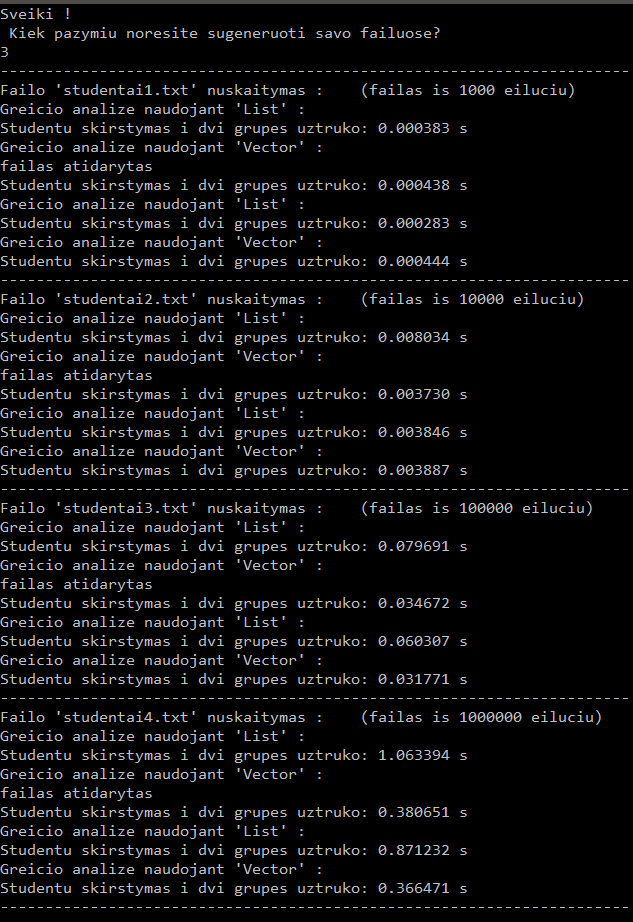
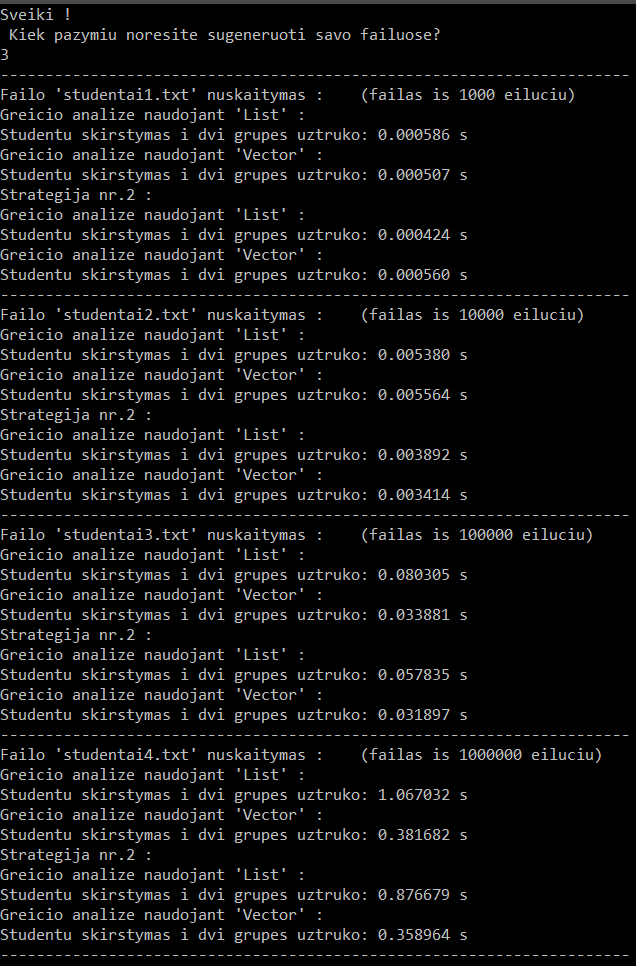
Add files via upload

Changed region(s): [[0.0, 0.0911, 0.9605, 1.0], [0.0, 0.0, 0.6904, 0.0607]]

diff --git a/strategija1.cpp b/strategija1.cpp
@@ -71,7 +71,6 @@ void greicio_analize_List(string read_vardas, int m) {
             dvejetukininkai.push_back(k);
         }
     }
-
     auto end = std::chrono::high_resolution_clock::now();
     std::chrono::duration<double> diff = end - start; // Skirtumas (s)
     cout << "Studentu skirstymas i dvi grupes uztruko: " << std::fixed << std::setprecision(6) << diff.count() << " s\n";
@@ -85,15 +84,8 @@ void greicio_analize_Vector(string read_vardas, int m, int studKiekis) {
     grupe.reserve(studKiekis + 5);
     cout << "Greicio analize naudojant 'Vector' :" << endl;
     std::ifstream myFile;
-   // myFile.open(read_vardas);
+    myFile.open(read_vardas);
     int paz = 0;
-    try {
-        myFile.open(read_vardas);
-    }
-    catch (std::ifstream::failure e) {
-        std::cout << "Negalima atidaryti failo arba failas neegzistuoja!\n";
-    }
-    cout << "failas atidarytas" << endl;
     while (myFile) {
         if (!myFile.eof()) {
             studentas laik;
@@ -132,7 +124,6 @@ void greicio_analize_Vector(string read_vardas, int m, int studKiekis) {
             dvejetukininkai.push_back(k);
         }
     }
-
     auto end = std::chrono::high_resolution_clock::now();
     std::chrono::duration<double> diff = end - start; // Skirtumas (s)
     cout << "Studentu skirstymas i dvi grupes uztruko: " << std::fixed << std::setprecision(6) << diff.count() << " s\n";

diff --git a/strategija2.cpp b/strategija2.cpp
@@ -58,7 +58,6 @@ void greicio_analize2_List(string read_vardas, int m) {
     dvejetukininkai.clear();
 }
 
-
 void greicio_analize2_Vector(string read_vardas, int m, int studKiekis) {
     vector <studentas2> grupe;
     grupe.reserve(studKiekis + 5);
